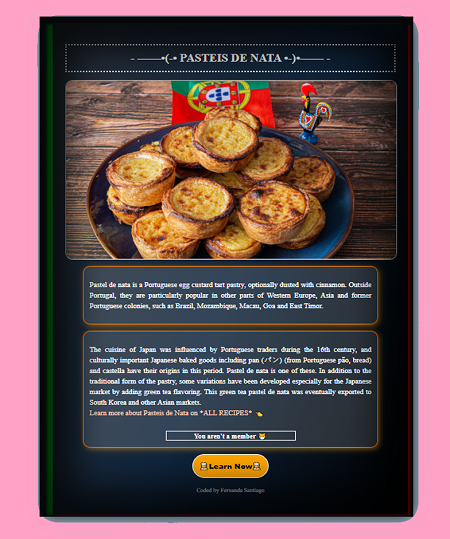
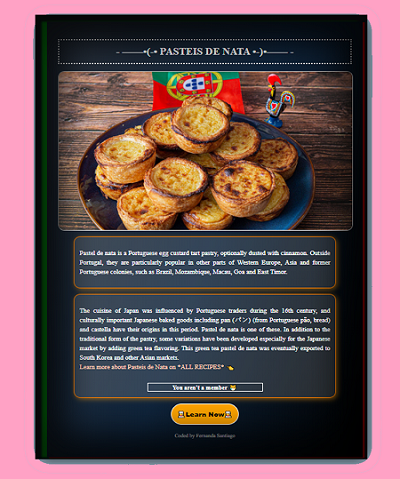
img-page second ocntainer fixed

diff --git a/about.html b/about.html
@@ -47,17 +47,20 @@
                 <hr>
             </div>
         </div>
-        <br>
-        <div class="img-page row" >
+                <div class="img-page row" >
             <div class="col-sm-6">
-                <img src="images/Untitleddd-1.png" alt="">
-                <h2 class="text-white p-2">Pasteis De Nata</h2>
-                <button onclick="window.open(``)">See Pasteis de Nata</button>
+                <br>
+                <img class="img-fluid" src="images/Untitleddd-1.png" alt="">
+                <h2 class="text-white p-3">See Weather App</h2>>
+                <button onclick="window.open(`https://poetic-weather-429797.netlify.app`)">See Weather App</button>
+                <hr>
             </div>
             <div class="col-sm-6">
-                <img src="" alt="">
-                <h2></h2>
-                <button></button>
+                <br>
+                <img class="img-fluid" src="images/Untitledfdfdfdd-1.png" alt="">
+                <h2 class="text-white p-3">World of Books</h2>
+                <button onclick="window.open(`https://sage-blini-d7544b.netlify.app`)">See World of Books</button>
+                <hr>
             </div>
         </div>
     </div>

diff --git a/src/style.css b/src/style.css
@@ -84,6 +84,8 @@ footer a:hover {
   padding: 0% 10%;
   background: rgb(124, 124, 124);
   width: 1200px;
+  border: 3px solid pink;
+  box-shadow: 1px 1px 20px pink;
 }
 
 .box-container hr {
@@ -91,7 +93,7 @@ footer a:hover {
 }
 
 .container-about {
-  background-color: rgb(255, 255, 255);
+  background-color: #ffd4e3;
   padding: 5%;
   box-shadow: 1px 1px 5px rgb(67, 67, 67);
 }
@@ -109,4 +111,9 @@ footer a:hover {
 
 .img-page button:hover {
   transform: translateY(-10px);
+}
+
+.img-page img {
+  border-radius: 20px;
+  box-shadow: 1px 2px 20px rgb(53, 53, 53);
 }
